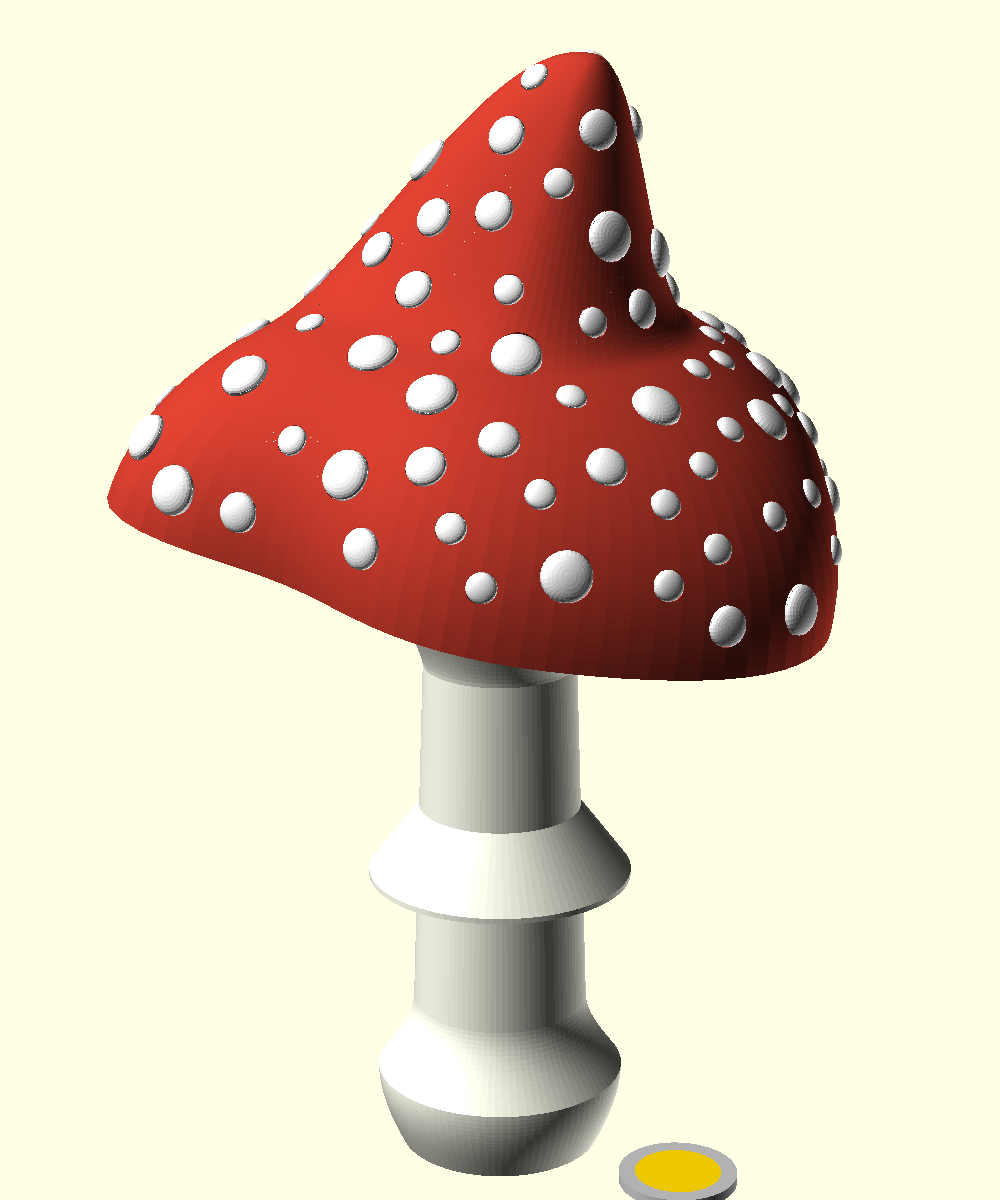
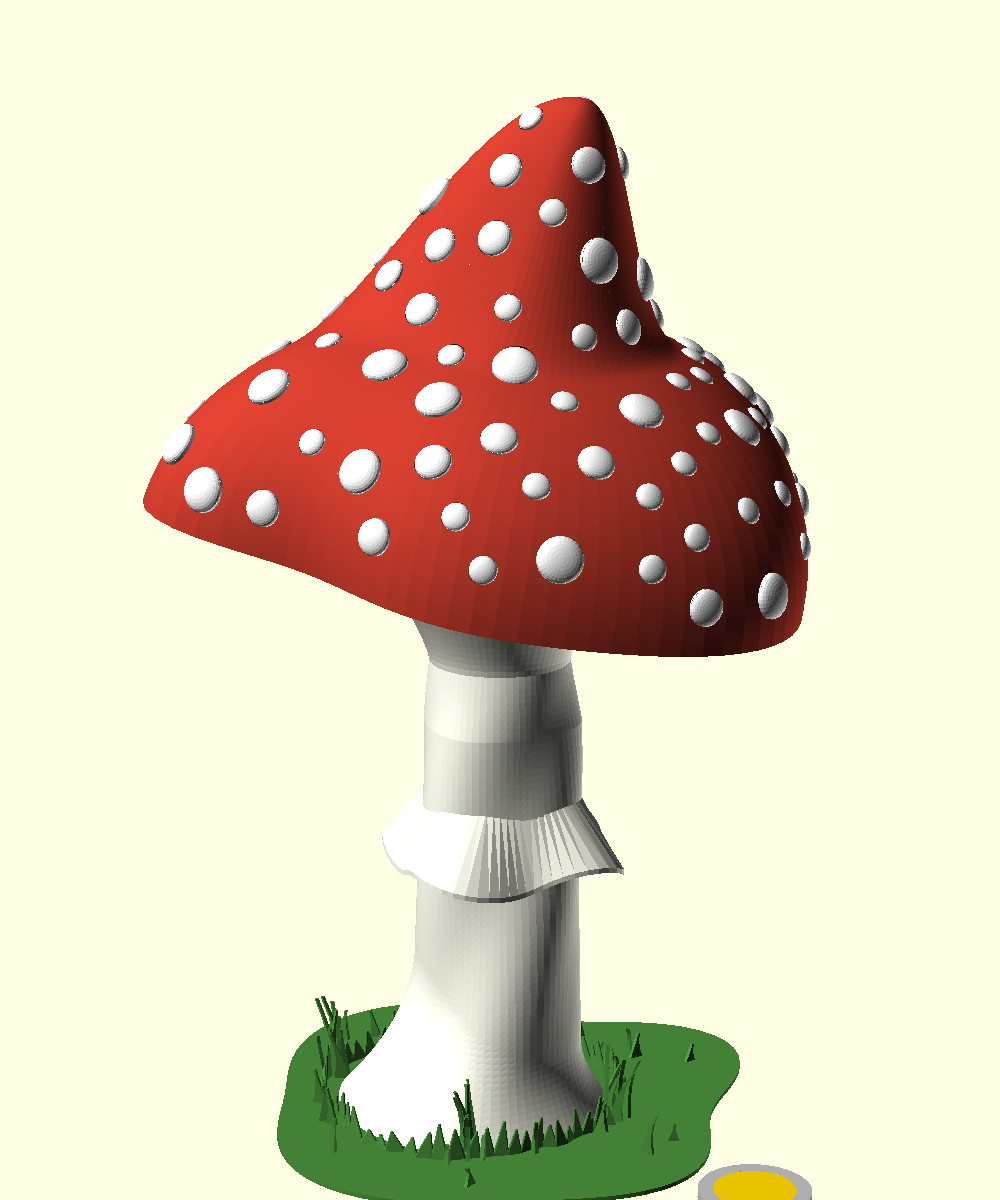
hw: mushroom stem and ground — lobed stem, flared foot, wavy ring, grass
- stem built as a polyhedron: tapered shaft with twisting lobes (adds
  material only, fades under the collar), asymmetric concave foot flare
  (<= 45°) instead of the volva bulb; ring swept around the stem with
  wavy overhang and drop, underside ~45°
- ground: separate 1 mm lobed disc (D~115) to glue under the stem, with
  a zigzag grass fringe around the foot, curved grass tufts and single
  blades (0.9 mm walls, 0.6 mm tips)
- generic harmonic generator (hterms/hval) shared by stem, ring, ground
- renders incl. rendu_champignon_pied.png; README

Changed region(s): [[0.093, 0.0308, 0.837, 1.0], [0.403, 0.6167, 0.434, 0.6783]]

diff --git a/openscad/README.md b/openscad/README.md
@@ -95,9 +95,9 @@ Pour poser l'ensemble boîtier + abri debout sur une table, sans mur.
 
 Variante décorative, type amanite, qui ne remplace pas le boîtier mural. Le chapeau est un tout (dôme + lamelles) posé sur le pied avec une légère inclinaison ; toute l'électronique est dans le chapeau, le pied ne porte que l'accu.
 
-| Vue d'ensemble | Dessous | Coupe |
-|---|---|---|
-| ![Champignon](rendu_champignon.png) | ![Champignon, dessous](rendu_champignon_dessous.png) | ![Champignon, coupe](rendu_champignon_coupe.png) |
+| Vue d'ensemble | Pied | Dessous | Coupe |
+|---|---|---|---|
+| ![Champignon](rendu_champignon.png) | ![Champignon, pied](rendu_champignon_pied.png) | ![Champignon, dessous](rendu_champignon_dessous.png) | ![Champignon, coupe](rendu_champignon_coupe.png) |
 
 Pièces :
 
@@ -108,7 +108,12 @@ Pièces :
   - **plancher percé** (`deck`) sur des appuis ;
   - **carte v2.2 découpée** (60 × 39 mm, le long des pointillés de sérigraphie x = 147 / y = 87, sans les supports 18650 et CR2032) : 2 vis M2.5 (MH5, MH1 du haut), le bord bas repose sur un appui. L'accu arrive sur **J13 « RAW IN »** (`+BATT`/`GND`) ;
   - glissière du **module de charge** TP4056, vertical sur le côté, prise **micro-USB vers le bas** entre deux lamelles.
-- **Pied** (`stem`) Ø33, creux (Ø29,3) jusqu'en haut : support 1×18650 du commerce vertical, inséré par le haut. Anneau, volve (Ø54). En haut, un tenon incliné de 10° (`cap_tilt`) s'emboîte dans le fourreau, 1 vis M3 radiale.
+- **Pied** (`stem`) Ø33 à Ø38, creux (Ø29,3) jusqu'en haut : support 1×18650 du commerce vertical, inséré par le haut. Même esprit que le chapeau :
+  - fût lobé (`stem_amp`, lobes qui tournent le long du fût, `stem_twist`) ; la déformation n'ajoute que de la matière, la paroi autour de l'accu ne s'amincit pas, et s'annule sous le fourreau ;
+  - base évasée dissymétrique, concave (`foot_flare`, `foot_flare_h`, `foot_dir`) : grand évasement d'un côté, petit de l'autre ;
+  - corolle (anneau) au débord et à la retombée ondulés (`ring_amp`), dessous à ~45°.
+  - En haut, un tenon incliné de 10° (`cap_tilt`) s'emboîte dans le fourreau, 1 vis M3 radiale.
+- **Sol** (`ground`) : disque de 1 mm au contour lobé (Ø~115, `ground_R`), frange d'herbe en zigzag autour du pied, touffes de grands brins et brins isolés (`grass_*`, `fringe_h`). Pièce séparée à imprimer en vert ; le pied se colle dessus. Élargit l'appui au sol.
 - **Pois** (`dot`) rapportés, collés dans des logements de 0,8 mm, répartis par tirage sur la surface réelle (pointe comprise, écart mini `dot_gap`) : ~110, l'écho OpenSCAD donne le nombre par taille.
 
 Hauteur totale ~250 mm.
@@ -124,10 +129,12 @@ Le contour vu de dessus est une somme d'harmoniques (2 à 7) à phases aléatoir
 ### Impression
 
 - Toutes les pièces sortent dans leur sens d'impression. Le **dôme** (102 mm de haut) s'imprime bord sur le plateau et demande des **supports à l'intérieur** (plafond et pointe), invisibles une fois monté. Les autres pièces s'impriment sans support (pied : 145 mm de haut).
-- Dôme en rouge (ou brun : panthère), pois en blanc, le reste en blanc / ivoire.
+- Dôme en rouge (ou brun : panthère), pois en blanc, sol en vert, le reste en blanc / ivoire.
+- Sol : brins et frange de 0,9 mm d'épaisseur, pointes à 0,6 mm (buse 0,4) ; le slicer peut tronquer les pointes les plus fines.
 
 ### Montage, accu
 
+0. Pied collé sur le sol.
 1. Châssis sur le disque à lamelles (4 vis par en dessous), BME glissé dans ses rainures, plancher, carte, module de charge dans sa glissière.
 2. Écrous M3 dans les logements du disque, dôme posé, 3 vis par en dessous.
 3. Support 18650 dans le pied par le haut, fils dans le fourreau, chapeau emboîté sur le tenon, vis radiale.
@@ -138,7 +145,7 @@ Le contour vu de dessus est une somme d'harmoniques (2 à 7) à phases aléatoir
 - Cotes à mesurer : support 18650 (`holder_w/d/l`), module de charge (`chg_w/l/t`, position de la prise `usb_cut`), breakout BME (`bme_w/d`).
 - Antenne 433 MHz (17 cm) : en cercle à l'intérieur du dôme, ou le long de l'accu dans le pied.
 - Pas de lame d'air entre le dôme et la carte : le capteur est sous le plancher, ventilé par en dessous ; échauffement au soleil à vérifier par mesure.
-- Stabilité : base Ø44 au sol (volve Ø54) pour ~210 mm et un chapeau Ø136 ; lester la volve ou ajouter un piquet pour le jardin si besoin.
+- Stabilité : le sol (Ø~115, 1 mm) élargit l'appui mais pèse peu ; pour ~250 mm et un chapeau de 148 mm, lester la base du pied (plomb dans le fond du logement) si besoin.
 
 ## Visserie
 
